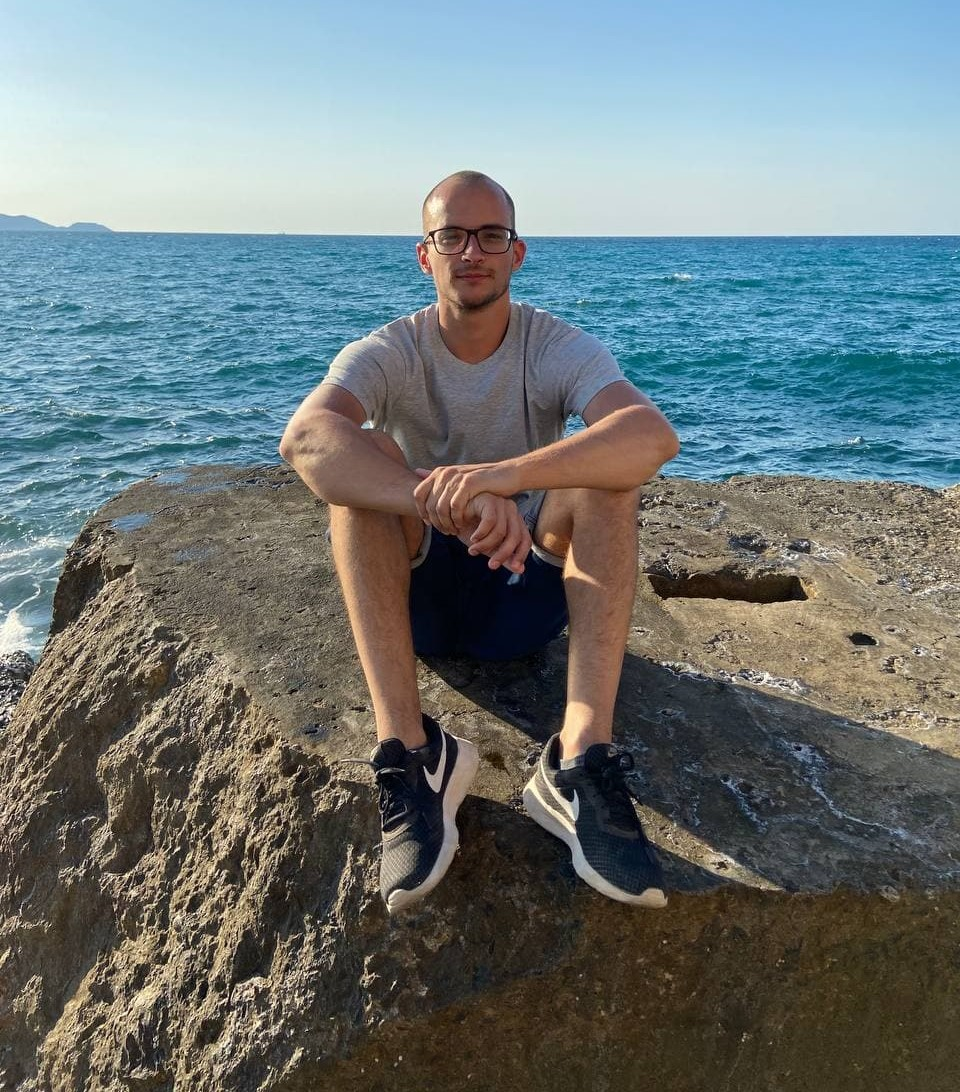
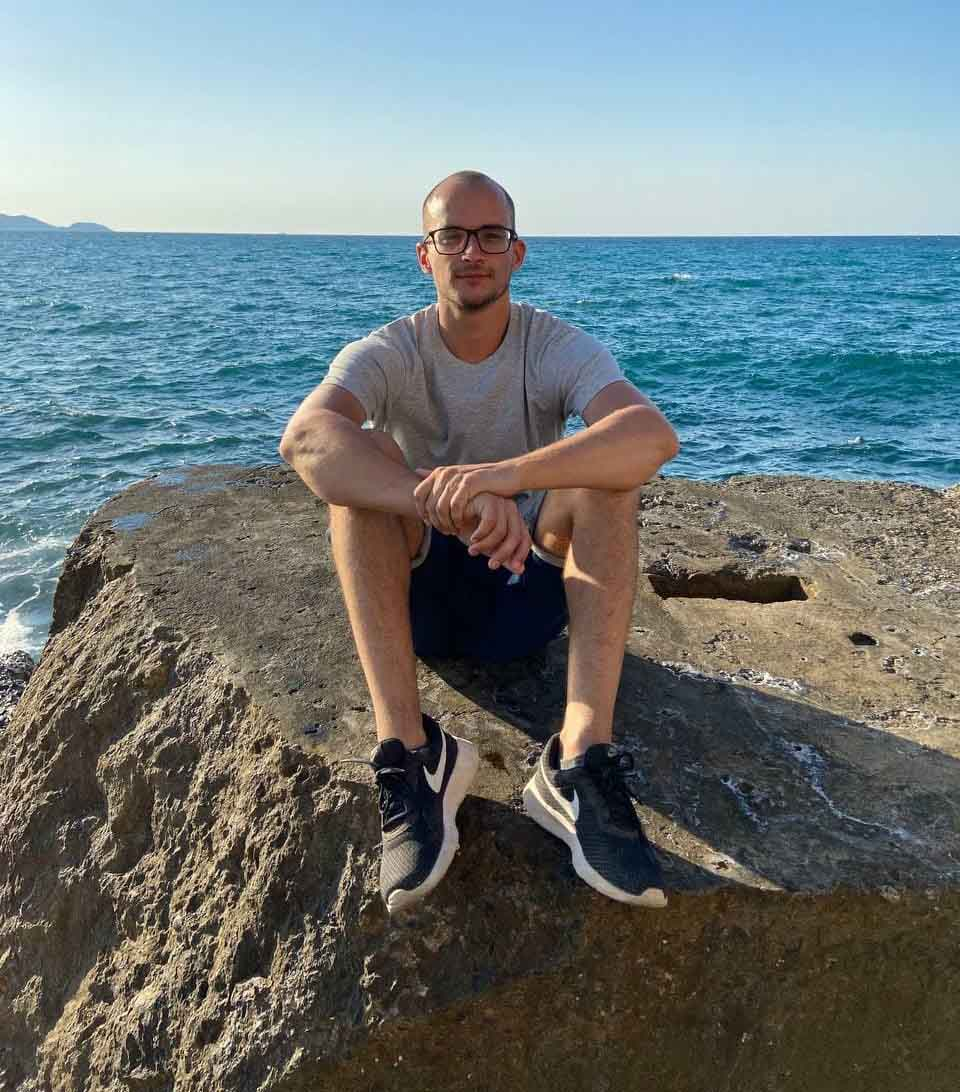
accessibility and performance

diff --git a/_site/lavori/studio-acqua-tortona.html b/_site/lavori/studio-acqua-tortona.html
@@ -30,11 +30,11 @@
 <link rel="canonical" href="https://matteotagliatti.it/lavori/studio-acqua-tortona.html" />
 <meta property="og:url" content="https://matteotagliatti.it/lavori/studio-acqua-tortona.html" />
 <meta property="og:type" content="article" />
-<meta property="article:published_time" content="2021-10-12T18:53:15+02:00" />
+<meta property="article:published_time" content="2021-10-12T19:21:59+02:00" />
 <meta name="twitter:card" content="summary" />
 <meta property="twitter:title" content="Studio Acqua Tortona" />
 <script type="application/ld+json">
-{"dateModified":"2021-10-12T18:53:15+02:00","datePublished":"2021-10-12T18:53:15+02:00","@type":"BlogPosting","mainEntityOfPage":{"@type":"WebPage","@id":"https://matteotagliatti.it/lavori/studio-acqua-tortona.html"},"url":"https://matteotagliatti.it/lavori/studio-acqua-tortona.html","author":{"@type":"Person","name":"Matteo Tagliatti"},"headline":"Studio Acqua Tortona","@context":"https://schema.org"}</script>
+{"dateModified":"2021-10-12T19:21:59+02:00","datePublished":"2021-10-12T19:21:59+02:00","@type":"BlogPosting","mainEntityOfPage":{"@type":"WebPage","@id":"https://matteotagliatti.it/lavori/studio-acqua-tortona.html"},"url":"https://matteotagliatti.it/lavori/studio-acqua-tortona.html","author":{"@type":"Person","name":"Matteo Tagliatti"},"headline":"Studio Acqua Tortona","@context":"https://schema.org"}</script>
 <!-- End Jekyll SEO tag -->
 
 
@@ -45,11 +45,11 @@
 <body >
     <div class="overlayclick"></div>
 <div class="overlay"></div>
-    <a href="/index.html"><img class="logo-header" src="/assets/img/logo-white.svg"></a>
+    <a href="/index.html"><img class="logo-header" src="/assets/img/logo-white.svg" alt="logo"></a>
 
     <div class="socials">
-    <a href="https://github.com/matteotagliatti" target="_blank"class="social-btn gh"></a>
-    <a href="https://www.linkedin.com/in/matteotagliatti/" target="_blank" class="social-btn li"></a>
+    <a href="https://github.com/matteotagliatti" target="_blank" class="social-btn gh" rel="noopener"></a>
+    <a href="https://www.linkedin.com/in/matteotagliatti/" target="_blank" class="social-btn li" rel="noopener"></a>
     <a href="/libri.html" class="social-btn books"></a>
 </div>
     

diff --git a/_site/lavori/centrosposiparadiso.html b/_site/lavori/centrosposiparadiso.html
@@ -30,11 +30,11 @@
 <link rel="canonical" href="https://matteotagliatti.it/lavori/centrosposiparadiso.html" />
 <meta property="og:url" content="https://matteotagliatti.it/lavori/centrosposiparadiso.html" />
 <meta property="og:type" content="article" />
-<meta property="article:published_time" content="2021-10-12T18:53:15+02:00" />
+<meta property="article:published_time" content="2021-10-12T19:21:59+02:00" />
 <meta name="twitter:card" content="summary" />
 <meta property="twitter:title" content="Centrosposiparadiso" />
 <script type="application/ld+json">
-{"dateModified":"2021-10-12T18:53:15+02:00","datePublished":"2021-10-12T18:53:15+02:00","@type":"BlogPosting","mainEntityOfPage":{"@type":"WebPage","@id":"https://matteotagliatti.it/lavori/centrosposiparadiso.html"},"url":"https://matteotagliatti.it/lavori/centrosposiparadiso.html","author":{"@type":"Person","name":"Matteo Tagliatti"},"headline":"Centrosposiparadiso","@context":"https://schema.org"}</script>
+{"dateModified":"2021-10-12T19:21:59+02:00","datePublished":"2021-10-12T19:21:59+02:00","@type":"BlogPosting","mainEntityOfPage":{"@type":"WebPage","@id":"https://matteotagliatti.it/lavori/centrosposiparadiso.html"},"url":"https://matteotagliatti.it/lavori/centrosposiparadiso.html","author":{"@type":"Person","name":"Matteo Tagliatti"},"headline":"Centrosposiparadiso","@context":"https://schema.org"}</script>
 <!-- End Jekyll SEO tag -->
 
 
@@ -45,11 +45,11 @@
 <body >
     <div class="overlayclick"></div>
 <div class="overlay"></div>
-    <a href="/index.html"><img class="logo-header" src="/assets/img/logo-white.svg"></a>
+    <a href="/index.html"><img class="logo-header" src="/assets/img/logo-white.svg" alt="logo"></a>
 
     <div class="socials">
-    <a href="https://github.com/matteotagliatti" target="_blank"class="social-btn gh"></a>
-    <a href="https://www.linkedin.com/in/matteotagliatti/" target="_blank" class="social-btn li"></a>
+    <a href="https://github.com/matteotagliatti" target="_blank" class="social-btn gh" rel="noopener"></a>
+    <a href="https://www.linkedin.com/in/matteotagliatti/" target="_blank" class="social-btn li" rel="noopener"></a>
     <a href="/libri.html" class="social-btn books"></a>
 </div>
     

diff --git a/_site/lavori/centrufficiooutlet.html b/_site/lavori/centrufficiooutlet.html
@@ -30,11 +30,11 @@
 <link rel="canonical" href="https://matteotagliatti.it/lavori/centrufficiooutlet.html" />
 <meta property="og:url" content="https://matteotagliatti.it/lavori/centrufficiooutlet.html" />
 <meta property="og:type" content="article" />
-<meta property="article:published_time" content="2021-10-12T18:53:15+02:00" />
+<meta property="article:published_time" content="2021-10-12T19:21:59+02:00" />
 <meta name="twitter:card" content="summary" />
 <meta property="twitter:title" content="Centrufficiooutlet" />
 <script type="application/ld+json">
-{"dateModified":"2021-10-12T18:53:15+02:00","datePublished":"2021-10-12T18:53:15+02:00","@type":"BlogPosting","mainEntityOfPage":{"@type":"WebPage","@id":"https://matteotagliatti.it/lavori/centrufficiooutlet.html"},"url":"https://matteotagliatti.it/lavori/centrufficiooutlet.html","author":{"@type":"Person","name":"Matteo Tagliatti"},"headline":"Centrufficiooutlet","@context":"https://schema.org"}</script>
+{"dateModified":"2021-10-12T19:21:59+02:00","datePublished":"2021-10-12T19:21:59+02:00","@type":"BlogPosting","mainEntityOfPage":{"@type":"WebPage","@id":"https://matteotagliatti.it/lavori/centrufficiooutlet.html"},"url":"https://matteotagliatti.it/lavori/centrufficiooutlet.html","author":{"@type":"Person","name":"Matteo Tagliatti"},"headline":"Centrufficiooutlet","@context":"https://schema.org"}</script>
 <!-- End Jekyll SEO tag -->
 
 
@@ -45,11 +45,11 @@
 <body >
     <div class="overlayclick"></div>
 <div class="overlay"></div>
-    <a href="/index.html"><img class="logo-header" src="/assets/img/logo-white.svg"></a>
+    <a href="/index.html"><img class="logo-header" src="/assets/img/logo-white.svg" alt="logo"></a>
 
     <div class="socials">
-    <a href="https://github.com/matteotagliatti" target="_blank"class="social-btn gh"></a>
-    <a href="https://www.linkedin.com/in/matteotagliatti/" target="_blank" class="social-btn li"></a>
+    <a href="https://github.com/matteotagliatti" target="_blank" class="social-btn gh" rel="noopener"></a>
+    <a href="https://www.linkedin.com/in/matteotagliatti/" target="_blank" class="social-btn li" rel="noopener"></a>
     <a href="/libri.html" class="social-btn books"></a>
 </div>
     

diff --git a/_site/lavori/futsalvigevano.html b/_site/lavori/futsalvigevano.html
@@ -30,11 +30,11 @@
 <link rel="canonical" href="https://matteotagliatti.it/lavori/futsalvigevano.html" />
 <meta property="og:url" content="https://matteotagliatti.it/lavori/futsalvigevano.html" />
 <meta property="og:type" content="article" />
-<meta property="article:published_time" content="2021-10-12T18:53:15+02:00" />
+<meta property="article:published_time" content="2021-10-12T19:21:59+02:00" />
 <meta name="twitter:card" content="summary" />
 <meta property="twitter:title" content="Futsalvigevano" />
 <script type="application/ld+json">
-{"dateModified":"2021-10-12T18:53:15+02:00","datePublished":"2021-10-12T18:53:15+02:00","@type":"BlogPosting","mainEntityOfPage":{"@type":"WebPage","@id":"https://matteotagliatti.it/lavori/futsalvigevano.html"},"url":"https://matteotagliatti.it/lavori/futsalvigevano.html","author":{"@type":"Person","name":"Matteo Tagliatti"},"headline":"Futsalvigevano","@context":"https://schema.org"}</script>
+{"dateModified":"2021-10-12T19:21:59+02:00","datePublished":"2021-10-12T19:21:59+02:00","@type":"BlogPosting","mainEntityOfPage":{"@type":"WebPage","@id":"https://matteotagliatti.it/lavori/futsalvigevano.html"},"url":"https://matteotagliatti.it/lavori/futsalvigevano.html","author":{"@type":"Person","name":"Matteo Tagliatti"},"headline":"Futsalvigevano","@context":"https://schema.org"}</script>
 <!-- End Jekyll SEO tag -->
 
 
@@ -45,11 +45,11 @@
 <body >
     <div class="overlayclick"></div>
 <div class="overlay"></div>
-    <a href="/index.html"><img class="logo-header" src="/assets/img/logo-white.svg"></a>
+    <a href="/index.html"><img class="logo-header" src="/assets/img/logo-white.svg" alt="logo"></a>
 
     <div class="socials">
-    <a href="https://github.com/matteotagliatti" target="_blank"class="social-btn gh"></a>
-    <a href="https://www.linkedin.com/in/matteotagliatti/" target="_blank" class="social-btn li"></a>
+    <a href="https://github.com/matteotagliatti" target="_blank" class="social-btn gh" rel="noopener"></a>
+    <a href="https://www.linkedin.com/in/matteotagliatti/" target="_blank" class="social-btn li" rel="noopener"></a>
     <a href="/libri.html" class="social-btn books"></a>
 </div>
     

diff --git a/_site/lavori/magnacartasnc.html b/_site/lavori/magnacartasnc.html
@@ -30,11 +30,11 @@
 <link rel="canonical" href="https://matteotagliatti.it/lavori/magnacartasnc.html" />
 <meta property="og:url" content="https://matteotagliatti.it/lavori/magnacartasnc.html" />
 <meta property="og:type" content="article" />
-<meta property="article:published_time" content="2021-10-12T18:53:15+02:00" />
+<meta property="article:published_time" content="2021-10-12T19:21:59+02:00" />
 <meta name="twitter:card" content="summary" />
 <meta property="twitter:title" content="Magnacartasnc" />
 <script type="application/ld+json">
-{"dateModified":"2021-10-12T18:53:15+02:00","datePublished":"2021-10-12T18:53:15+02:00","@type":"BlogPosting","mainEntityOfPage":{"@type":"WebPage","@id":"https://matteotagliatti.it/lavori/magnacartasnc.html"},"url":"https://matteotagliatti.it/lavori/magnacartasnc.html","author":{"@type":"Person","name":"Matteo Tagliatti"},"headline":"Magnacartasnc","@context":"https://schema.org"}</script>
+{"dateModified":"2021-10-12T19:21:59+02:00","datePublished":"2021-10-12T19:21:59+02:00","@type":"BlogPosting","mainEntityOfPage":{"@type":"WebPage","@id":"https://matteotagliatti.it/lavori/magnacartasnc.html"},"url":"https://matteotagliatti.it/lavori/magnacartasnc.html","author":{"@type":"Person","name":"Matteo Tagliatti"},"headline":"Magnacartasnc","@context":"https://schema.org"}</script>
 <!-- End Jekyll SEO tag -->
 
 
@@ -45,11 +45,11 @@
 <body >
     <div class="overlayclick"></div>
 <div class="overlay"></div>
-    <a href="/index.html"><img class="logo-header" src="/assets/img/logo-white.svg"></a>
+    <a href="/index.html"><img class="logo-header" src="/assets/img/logo-white.svg" alt="logo"></a>
 
     <div class="socials">
-    <a href="https://github.com/matteotagliatti" target="_blank"class="social-btn gh"></a>
-    <a href="https://www.linkedin.com/in/matteotagliatti/" target="_blank" class="social-btn li"></a>
+    <a href="https://github.com/matteotagliatti" target="_blank" class="social-btn gh" rel="noopener"></a>
+    <a href="https://www.linkedin.com/in/matteotagliatti/" target="_blank" class="social-btn li" rel="noopener"></a>
     <a href="/libri.html" class="social-btn books"></a>
 </div>
     

diff --git a/_site/lavori/template-html.html b/_site/lavori/template-html.html
@@ -30,11 +30,11 @@
 <link rel="canonical" href="https://matteotagliatti.it/lavori/template-html.html" />
 <meta property="og:url" content="https://matteotagliatti.it/lavori/template-html.html" />
 <meta property="og:type" content="article" />
-<meta property="article:published_time" content="2021-10-12T18:53:15+02:00" />
+<meta property="article:published_time" content="2021-10-12T19:21:59+02:00" />
 <meta name="twitter:card" content="summary" />
 <meta property="twitter:title" content="Template Html" />
 <script type="application/ld+json">
-{"dateModified":"2021-10-12T18:53:15+02:00","datePublished":"2021-10-12T18:53:15+02:00","@type":"BlogPosting","mainEntityOfPage":{"@type":"WebPage","@id":"https://matteotagliatti.it/lavori/template-html.html"},"url":"https://matteotagliatti.it/lavori/template-html.html","author":{"@type":"Person","name":"Matteo Tagliatti"},"headline":"Template Html","@context":"https://schema.org"}</script>
+{"dateModified":"2021-10-12T19:21:59+02:00","datePublished":"2021-10-12T19:21:59+02:00","@type":"BlogPosting","mainEntityOfPage":{"@type":"WebPage","@id":"https://matteotagliatti.it/lavori/template-html.html"},"url":"https://matteotagliatti.it/lavori/template-html.html","author":{"@type":"Person","name":"Matteo Tagliatti"},"headline":"Template Html","@context":"https://schema.org"}</script>
 <!-- End Jekyll SEO tag -->
 
 
@@ -45,11 +45,11 @@
 <body >
     <div class="overlayclick"></div>
 <div class="overlay"></div>
-    <a href="/index.html"><img class="logo-header" src="/assets/img/logo-white.svg"></a>
+    <a href="/index.html"><img class="logo-header" src="/assets/img/logo-white.svg" alt="logo"></a>
 
     <div class="socials">
-    <a href="https://github.com/matteotagliatti" target="_blank"class="social-btn gh"></a>
-    <a href="https://www.linkedin.com/in/matteotagliatti/" target="_blank" class="social-btn li"></a>
+    <a href="https://github.com/matteotagliatti" target="_blank" class="social-btn gh" rel="noopener"></a>
+    <a href="https://www.linkedin.com/in/matteotagliatti/" target="_blank" class="social-btn li" rel="noopener"></a>
     <a href="/libri.html" class="social-btn books"></a>
 </div>
     

diff --git a/_site/lavori/motostore.html b/_site/lavori/motostore.html
@@ -30,11 +30,11 @@
 <link rel="canonical" href="https://matteotagliatti.it/lavori/motostore.html" />
 <meta property="og:url" content="https://matteotagliatti.it/lavori/motostore.html" />
 <meta property="og:type" content="article" />
-<meta property="article:published_time" content="2021-10-12T18:53:15+02:00" />
+<meta property="article:published_time" content="2021-10-12T19:21:59+02:00" />
 <meta name="twitter:card" content="summary" />
 <meta property="twitter:title" content="Motostore" />
 <script type="application/ld+json">
-{"dateModified":"2021-10-12T18:53:15+02:00","datePublished":"2021-10-12T18:53:15+02:00","@type":"BlogPosting","mainEntityOfPage":{"@type":"WebPage","@id":"https://matteotagliatti.it/lavori/motostore.html"},"url":"https://matteotagliatti.it/lavori/motostore.html","author":{"@type":"Person","name":"Matteo Tagliatti"},"headline":"Motostore","@context":"https://schema.org"}</script>
+{"dateModified":"2021-10-12T19:21:59+02:00","datePublished":"2021-10-12T19:21:59+02:00","@type":"BlogPosting","mainEntityOfPage":{"@type":"WebPage","@id":"https://matteotagliatti.it/lavori/motostore.html"},"url":"https://matteotagliatti.it/lavori/motostore.html","author":{"@type":"Person","name":"Matteo Tagliatti"},"headline":"Motostore","@context":"https://schema.org"}</script>
 <!-- End Jekyll SEO tag -->
 
 
@@ -45,11 +45,11 @@
 <body >
     <div class="overlayclick"></div>
 <div class="overlay"></div>
-    <a href="/index.html"><img class="logo-header" src="/assets/img/logo-white.svg"></a>
+    <a href="/index.html"><img class="logo-header" src="/assets/img/logo-white.svg" alt="logo"></a>
 
     <div class="socials">
-    <a href="https://github.com/matteotagliatti" target="_blank"class="social-btn gh"></a>
-    <a href="https://www.linkedin.com/in/matteotagliatti/" target="_blank" class="social-btn li"></a>
+    <a href="https://github.com/matteotagliatti" target="_blank" class="social-btn gh" rel="noopener"></a>
+    <a href="https://www.linkedin.com/in/matteotagliatti/" target="_blank" class="social-btn li" rel="noopener"></a>
     <a href="/libri.html" class="social-btn books"></a>
 </div>
     

diff --git a/_site/lavori/aep.html b/_site/lavori/aep.html
@@ -30,11 +30,11 @@
 <link rel="canonical" href="https://matteotagliatti.it/lavori/aep.html" />
 <meta property="og:url" content="https://matteotagliatti.it/lavori/aep.html" />
 <meta property="og:type" content="article" />
-<meta property="article:published_time" content="2021-10-12T18:53:15+02:00" />
+<meta property="article:published_time" content="2021-10-12T19:21:59+02:00" />
 <meta name="twitter:card" content="summary" />
 <meta property="twitter:title" content="Aep" />
 <script type="application/ld+json">
-{"dateModified":"2021-10-12T18:53:15+02:00","datePublished":"2021-10-12T18:53:15+02:00","@type":"BlogPosting","mainEntityOfPage":{"@type":"WebPage","@id":"https://matteotagliatti.it/lavori/aep.html"},"url":"https://matteotagliatti.it/lavori/aep.html","author":{"@type":"Person","name":"Matteo Tagliatti"},"headline":"Aep","@context":"https://schema.org"}</script>
+{"dateModified":"2021-10-12T19:21:59+02:00","datePublished":"2021-10-12T19:21:59+02:00","@type":"BlogPosting","mainEntityOfPage":{"@type":"WebPage","@id":"https://matteotagliatti.it/lavori/aep.html"},"url":"https://matteotagliatti.it/lavori/aep.html","author":{"@type":"Person","name":"Matteo Tagliatti"},"headline":"Aep","@context":"https://schema.org"}</script>
 <!-- End Jekyll SEO tag -->
 
 
@@ -45,11 +45,11 @@
 <body >
     <div class="overlayclick"></div>
 <div class="overlay"></div>
-    <a href="/index.html"><img class="logo-header" src="/assets/img/logo-white.svg"></a>
+    <a href="/index.html"><img class="logo-header" src="/assets/img/logo-white.svg" alt="logo"></a>
 
     <div class="socials">
-    <a href="https://github.com/matteotagliatti" target="_blank"class="social-btn gh"></a>
-    <a href="https://www.linkedin.com/in/matteotagliatti/" target="_blank" class="social-btn li"></a>
+    <a href="https://github.com/matteotagliatti" target="_blank" class="social-btn gh" rel="noopener"></a>
+    <a href="https://www.linkedin.com/in/matteotagliatti/" target="_blank" class="social-btn li" rel="noopener"></a>
     <a href="/libri.html" class="social-btn books"></a>
 </div>
     

diff --git a/_site/index.html b/_site/index.html
@@ -1,5 +1,5 @@
 <!doctype html>
-<html>
+<html lang="it">
 
 <head>
   <meta http-equiv="Content-Type" content="text/html; charset=utf-8" />
@@ -40,11 +40,11 @@
 <body class="home">
     <div class="overlayclick"></div>
 <div class="overlay"></div>
-    <a href="/index.html"><img class="logo-header" src="/assets/img/logo-white.svg"></a>
+    <a href="/index.html"><img class="logo-header" src="/assets/img/logo-white.svg" alt="logo"></a>
 
   <div class="socials">
-    <a href="https://github.com/matteotagliatti" target="_blank"class="social-btn gh"></a>
-    <a href="https://www.linkedin.com/in/matteotagliatti/" target="_blank" class="social-btn li"></a>
+    <a href="https://github.com/matteotagliatti" target="_blank" class="social-btn gh" rel="noopener"></a>
+    <a href="https://www.linkedin.com/in/matteotagliatti/" target="_blank" class="social-btn li" rel="noopener"></a>
     <a href="/libri.html" class="social-btn books"></a>
 </div>
   
@@ -60,8 +60,8 @@
       <div class="wrap-wide">
           <div class="photo">
               <div class="image-box">
-                  <img src="assets/img/placeholder-2.jpg" class="image-box-inside">
-                  <img src="assets/img/placeholder-2.jpg" class="image-box-small">
+                  <img src="assets/img/placeholder-2.jpg" class="image-box-inside" alt="matteo tagliatti">
+                  <img src="assets/img/placeholder-2.jpg" class="image-box-small" alt="matteo tagliatti">
                   <div class="image-box-overlay"></div>
               </div>
           </div>

diff --git a/index.html b/index.html
@@ -4,7 +4,7 @@ descrizione: Mi chiamo Matteo Tagliatti. Sono un web designer e developer in con
 ---
 
 <!doctype html>
-<html>
+<html lang="it">
 
 <head>
   {% include head.html %}
@@ -28,8 +28,8 @@ descrizione: Mi chiamo Matteo Tagliatti. Sono un web designer e developer in con
       <div class="wrap-wide">
           <div class="photo">
               <div class="image-box">
-                  <img src="assets/img/placeholder-2.jpg" class="image-box-inside">
-                  <img src="assets/img/placeholder-2.jpg" class="image-box-small">
+                  <img src="assets/img/placeholder-2.jpg" class="image-box-inside" alt="matteo tagliatti">
+                  <img src="assets/img/placeholder-2.jpg" class="image-box-small" alt="matteo tagliatti">
                   <div class="image-box-overlay"></div>
               </div>
           </div>

diff --git a/_site/lavori.html b/_site/lavori.html
@@ -40,11 +40,11 @@
 <body class="work">
     <div class="overlayclick"></div>
 <div class="overlay"></div>
-    <a href="/index.html"><img class="logo-header" src="/assets/img/logo-white.svg"></a>
+    <a href="/index.html"><img class="logo-header" src="/assets/img/logo-white.svg" alt="logo"></a>
     
     <div class="socials">
-    <a href="https://github.com/matteotagliatti" target="_blank"class="social-btn gh"></a>
-    <a href="https://www.linkedin.com/in/matteotagliatti/" target="_blank" class="social-btn li"></a>
+    <a href="https://github.com/matteotagliatti" target="_blank" class="social-btn gh" rel="noopener"></a>
+    <a href="https://www.linkedin.com/in/matteotagliatti/" target="_blank" class="social-btn li" rel="noopener"></a>
     <a href="/libri.html" class="social-btn books"></a>
 </div>
     

diff --git a/_site/libri.html b/_site/libri.html
@@ -40,11 +40,11 @@
 <body>
     <div class="overlayclick"></div>
 <div class="overlay"></div>
-    <a href="/index.html"><img class="logo-header" src="/assets/img/logo-white.svg"></a>
+    <a href="/index.html"><img class="logo-header" src="/assets/img/logo-white.svg" alt="logo"></a>
 
   <div class="socials">
-    <a href="https://github.com/matteotagliatti" target="_blank"class="social-btn gh"></a>
-    <a href="https://www.linkedin.com/in/matteotagliatti/" target="_blank" class="social-btn li"></a>
+    <a href="https://github.com/matteotagliatti" target="_blank" class="social-btn gh" rel="noopener"></a>
+    <a href="https://www.linkedin.com/in/matteotagliatti/" target="_blank" class="social-btn li" rel="noopener"></a>
     <a href="/libri.html" class="social-btn books"></a>
 </div>
 
